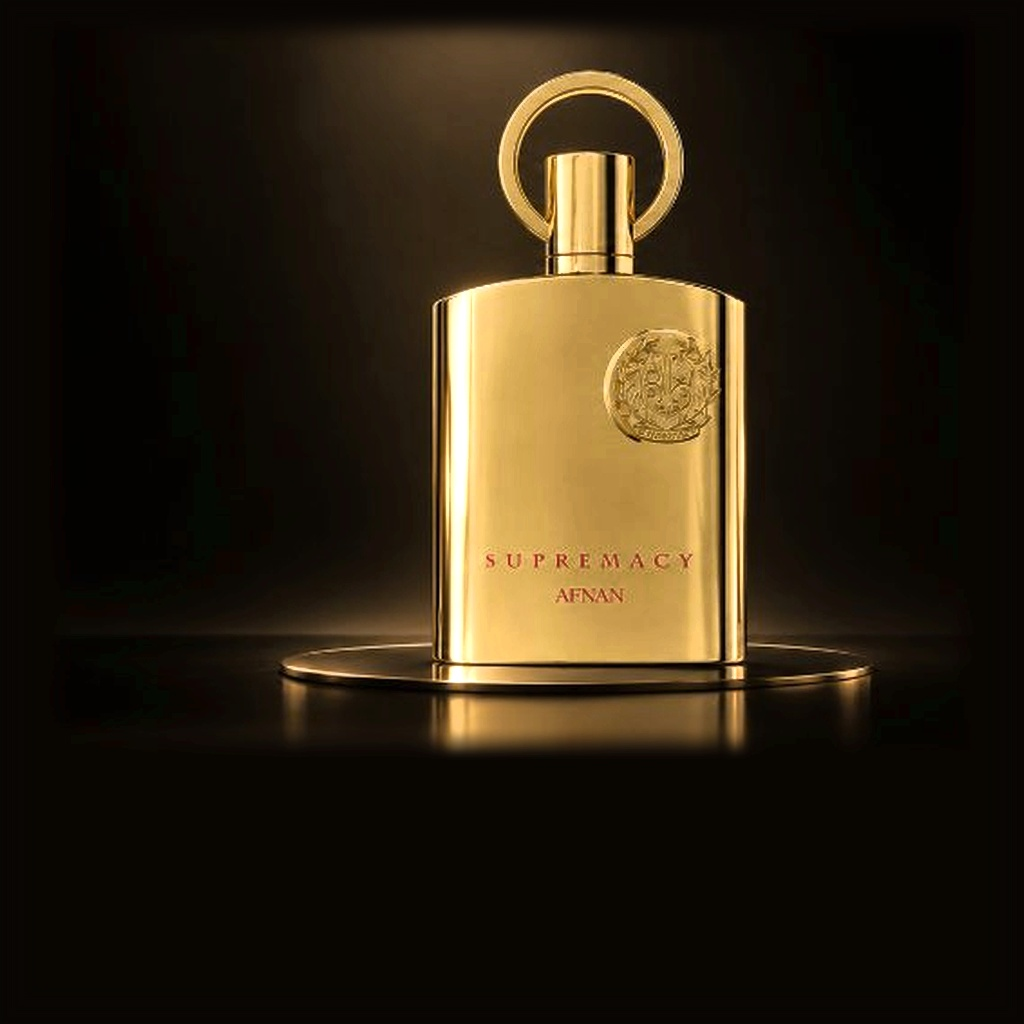
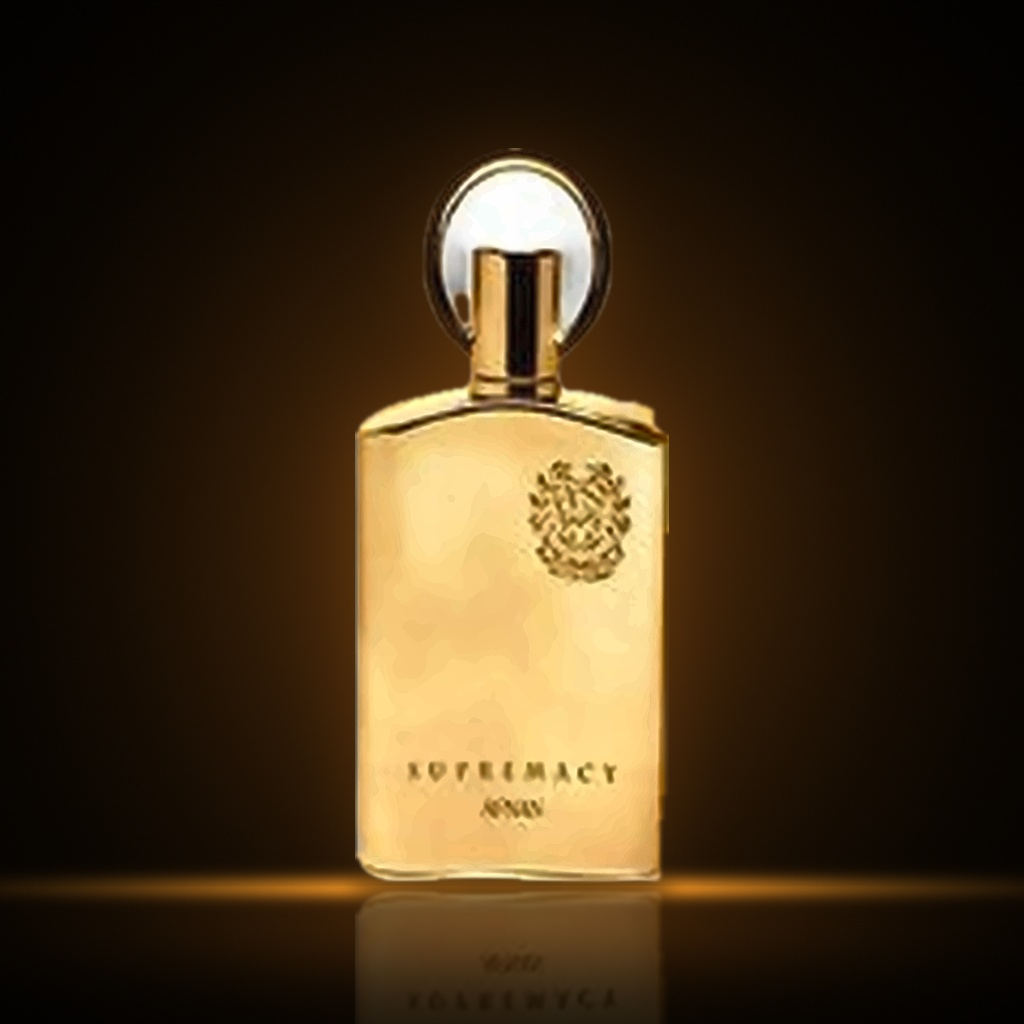
feat(ui): display luxury podium stage and lighting exclusively on product details for all products, keep catalog grid clean

diff --git a/Al-Warda/src/components/bookdetails/BookDetails.css b/Al-Warda/src/components/bookdetails/BookDetails.css
@@ -149,9 +149,8 @@
   display: flex;
   align-items: flex-start;
   justify-content: center;
-  min-height: 500px;
-  height: auto;
-  max-height: 590px;
+  min-height: 600px;
+  height: 600px;
   position: relative;
   padding: 0;
   background: transparent !important;
@@ -160,19 +159,17 @@
   overflow: visible;
   cursor: pointer;
   user-select: none;
-  /* Seamless edge feathering: zero sharp borders, dissolves 100% into the dark page background */
+  /* Soft outer boundary roll-off into the dark background */
   -webkit-mask-image: radial-gradient(
-    ellipse 94% 92% at 50% 50%,
-    #000 62%,
-    rgba(0, 0, 0, 0.85) 76%,
-    rgba(0, 0, 0, 0.4) 89%,
+    ellipse 96% 96% at 50% 50%,
+    #000 82%,
+    rgba(0, 0, 0, 0.7) 92%,
     transparent 100%
   );
   mask-image: radial-gradient(
-    ellipse 94% 92% at 50% 50%,
-    #000 62%,
-    rgba(0, 0, 0, 0.85) 76%,
-    rgba(0, 0, 0, 0.4) 89%,
+    ellipse 96% 96% at 50% 50%,
+    #000 82%,
+    rgba(0, 0, 0, 0.7) 92%,
     transparent 100%
   );
 }
@@ -207,17 +204,69 @@
   color: #d4af37;
 }
 
+/* -------------------------------------------------------------
+   LUXURY STUDIO STAGE: SPOTLIGHT, AURA, PODIUM TRAY, REFLECTION
+   ------------------------------------------------------------- */
+.warda-stage-spotlight {
+  position: absolute;
+  top: -60px;
+  left: -80px;
+  width: 580px;
+  height: 640px;
+  background: radial-gradient(
+    ellipse 85% 70% at 20% 15%,
+    rgba(255, 230, 160, 0.28) 0%,
+    rgba(240, 195, 105, 0.16) 35%,
+    rgba(215, 165, 65, 0.05) 65%,
+    transparent 85%
+  );
+  clip-path: polygon(0 0, 60% 0, 100% 100%, 0 100%);
+  filter: blur(40px);
+  pointer-events: none;
+  z-index: 1;
+}
+
+.warda-stage-aura {
+  position: absolute;
+  top: 42%;
+  left: 50%;
+  transform: translate(-50%, -50%);
+  width: 440px;
+  height: 440px;
+  background: radial-gradient(
+    circle,
+    rgba(225, 175, 55, 0.18) 0%,
+    rgba(210, 150, 40, 0.08) 45%,
+    rgba(160, 100, 20, 0.02) 70%,
+    transparent 85%
+  );
+  filter: blur(48px);
+  pointer-events: none;
+  z-index: 1;
+}
+
+.warda-stage-assembly {
+  position: relative;
+  width: 100%;
+  max-width: 586px;
+  display: flex;
+  flex-direction: column;
+  align-items: center;
+  justify-content: flex-start;
+  padding-top: 40.8px; /* aligns topmost point of flacon flush with title heading */
+  z-index: 2;
+}
+
 /* Flacon Container & Photo Presentation */
 .warda-details-photo {
   position: relative;
   display: flex;
-  align-items: flex-start;
+  align-items: flex-end;
   justify-content: center;
   width: 100%;
-  height: auto;
-  max-width: 600px;
-  max-height: 590px;
-  z-index: 2;
+  max-width: 586px;
+  height: 415px;
+  z-index: 4;
 }
 
 .warda-details-img {
@@ -227,23 +276,109 @@
   width: auto;
   height: auto;
   object-fit: contain;
+  object-position: bottom center;
   position: relative;
-  z-index: 2;
+  z-index: 4;
   image-rendering: auto;
   -webkit-backface-visibility: hidden;
   backface-visibility: hidden;
   transform: translateZ(0);
-  filter: drop-shadow(0 18px 40px rgba(0, 0, 0, 0.75));
+  filter: drop-shadow(0 15px 25px rgba(0, 0, 0, 0.5));
   transition: transform 0.4s cubic-bezier(0.16, 1, 0.3, 1), filter 0.4s ease;
 }
 
 .warda-details-img-wrap:hover .warda-details-img {
-  transform: scale(1.03);
-  filter: drop-shadow(0 26px 52px rgba(0, 0, 0, 0.9)) drop-shadow(0 0 35px rgba(212, 175, 55, 0.25));
+  transform: scale(1.025);
+  filter: drop-shadow(0 20px 35px rgba(0, 0, 0, 0.65)) drop-shadow(0 0 25px rgba(212, 175, 55, 0.3));
 }
 
 @media (hover: none) {
   .warda-details-img-wrap:hover .warda-details-img { transform: none; }
+}
+
+/* Contact Shadow right under the bottle base */
+.warda-stage-contact-shadow {
+  position: absolute;
+  top: 432px;
+  left: 50%;
+  transform: translateX(-50%);
+  width: 250px;
+  height: 16px;
+  background: radial-gradient(
+    ellipse 60% 60% at 50% 50%,
+    rgba(10, 6, 2, 0.95) 0%,
+    rgba(10, 6, 2, 0.6) 45%,
+    transparent 85%
+  );
+  filter: blur(4px);
+  pointer-events: none;
+  z-index: 5;
+}
+
+/* 3D Golden Metallic Podium Tray */
+.warda-stage-podium-tray-wrap {
+  position: absolute;
+  top: 398px;
+  left: 50%;
+  transform: translateX(-50%);
+  width: 510px;
+  height: 140px;
+  pointer-events: none;
+  z-index: 2;
+  display: flex;
+  align-items: flex-start;
+  justify-content: center;
+}
+
+.warda-stage-podium-tray-img {
+  width: 100%;
+  height: auto;
+  display: block;
+  filter: drop-shadow(0 14px 28px rgba(0, 0, 0, 0.85));
+}
+
+/* Optical Mirror Reflection on the Golden Tray */
+.warda-stage-reflection-container {
+  position: absolute;
+  top: 434px;
+  left: 50%;
+  transform: translateX(-50%);
+  width: 100%;
+  max-width: 586px;
+  height: 90px;
+  overflow: hidden;
+  pointer-events: none;
+  z-index: 3;
+  /* Mask to top ellipse of the tray with smooth vertical fade */
+  mask-image: radial-gradient(ellipse 65% 75% at 50% 15%, #000 35%, transparent 75%),
+              linear-gradient(to bottom, #000 0%, transparent 85%);
+  -webkit-mask-image: radial-gradient(ellipse 65% 75% at 50% 15%, #000 35%, transparent 75%),
+                      linear-gradient(to bottom, #000 0%, transparent 85%);
+  mask-composite: intersect;
+  -webkit-mask-composite: source-in;
+}
+
+.warda-stage-reflection-img {
+  width: 100%;
+  height: 415px;
+  object-fit: contain;
+  object-position: bottom center;
+  transform: scaleY(-1);
+  opacity: 0.55;
+  filter: blur(1.5px) brightness(1.15) sepia(0.4) hue-rotate(5deg);
+}
+
+.warda-stage-reflection-tint {
+  position: absolute;
+  inset: 0;
+  background: linear-gradient(
+    to bottom,
+    rgba(235, 195, 85, 0.35) 0%,
+    rgba(195, 150, 50, 0.15) 55%,
+    transparent 100%
+  );
+  mix-blend-mode: overlay;
+  pointer-events: none;
 }
 
 .warda-details-info {

diff --git a/Al-Warda/src/components/bookdetails/BookDetails.jsx b/Al-Warda/src/components/bookdetails/BookDetails.jsx
@@ -29,7 +29,7 @@ function bustImageCache(url) {
   if (!url || typeof url !== "string") return url;
   if (!url.startsWith("/assets/img/")) return url;
   const clean = url.split("?")[0];
-  return `${clean}?v=luxury-stage-v9`;
+  return `${clean}?v=cutout-clean-v10`;
 }
 
 function getPerfumeImageSources(perfume) {
@@ -44,11 +44,11 @@ function getPerfumeImageSources(perfume) {
       : null;
   const webpUrl =
     typeof cleanPrimary === "string" && cleanPrimary.endsWith(".png")
-      ? `${cleanPrimary.replace(/\.png$/, ".webp")}?v=luxury-stage-v9`
+      ? `${cleanPrimary.replace(/\.png$/, ".webp")}?v=cutout-clean-v10`
       : null;
   const pngUrl =
     typeof cleanPrimary === "string" && cleanPrimary.endsWith(".webp")
-      ? `${cleanPrimary.replace(/\.webp$/, ".png")}?v=luxury-stage-v9`
+      ? `${cleanPrimary.replace(/\.webp$/, ".png")}?v=cutout-clean-v10`
       : null;
   const rawGhWebpUrl = rawGhUrl ? rawGhUrl.replace(/\.png$/, ".webp") : null;
   const fallback =
@@ -515,19 +515,50 @@ export default function BookDetails() {
                 aria-label="Inspect perfume flacon details"
                 title={t("details.clickToView")}
               >
-                {/* Flacon Image */}
-                <div className="warda-details-photo">
-                  <img
-                    src={activeImageSrc || perfume?.image}
-                    alt={perfume.name}
-                    className="warda-details-img"
-                    style={{
-                      transformOrigin: "center center",
-                    }}
-                    loading="eager"
-                    decoding="async"
-                    onError={handleFlaconImgError}
-                  />
+                {/* Volumetric Studio Spotlight Beam */}
+                <div className="warda-stage-spotlight" />
+
+                {/* Warm Golden Ambient Backlight Aura */}
+                <div className="warda-stage-aura" />
+
+                {/* Studio Stage Assembly: Flacon + Reflection + Contact Shadow + 3D Golden Podium Tray */}
+                <div className="warda-stage-assembly">
+                  {/* Flacon Image */}
+                  <div className="warda-details-photo">
+                    <img
+                      src={activeImageSrc || perfume?.image}
+                      alt={perfume.name}
+                      className="warda-details-img"
+                      style={{
+                        transformOrigin: "center center",
+                      }}
+                      loading="eager"
+                      decoding="async"
+                      onError={handleFlaconImgError}
+                    />
+                  </div>
+
+                  {/* Optical Mirror Reflection on Golden Tray */}
+                  <div className="warda-stage-reflection-container" aria-hidden="true">
+                    <img
+                      src={activeImageSrc || perfume?.image}
+                      alt=""
+                      className="warda-stage-reflection-img"
+                    />
+                    <div className="warda-stage-reflection-tint" />
+                  </div>
+
+                  {/* Contact Shadow at the Flacon Base */}
+                  <div className="warda-stage-contact-shadow" />
+
+                  {/* 3D Luxury Metallic Podium Tray */}
+                  <div className="warda-stage-podium-tray-wrap" aria-hidden="true">
+                    <img
+                      src="/assets/img/stage/luxury_podium_tray.png"
+                      alt=""
+                      className="warda-stage-podium-tray-img"
+                    />
+                  </div>
                 </div>
               </div>
 

diff --git a/Al-Warda/utils/perfumes.js b/Al-Warda/utils/perfumes.js
@@ -17,11 +17,10 @@ let catalogRefresh = null;
 // catalog once; explicit refresh:true bypasses the TTL. Configurable here.
 let catalogCacheTime = 0;
 const CATALOG_TTL_MS = 10 * 60 * 1000; // 10 minutes
-const PRODUCT_IMAGE_VERSION = "qogita-gemini-image-v4";
+const PRODUCT_IMAGE_VERSION = "cutout-clean-v10";
 
 function resolveCardImage(img, gtin, rawImage) {
   if (img && /^https:\/\//i.test(img)) return img;
-  if (img && isGeneratedProductImage(img)) return img;
   if (img && img.startsWith("/assets/img/")) {
     return `${img.split("?")[0]}?v=${PRODUCT_IMAGE_VERSION}`;
   }
@@ -1983,7 +1982,8 @@ export function ensurePerfumeEnrichment(p) {
   const gtin = p.gtin || p.info?.gtin;
   let resolvedImg = "";
   if (hasCompletedGeneratedImage(p)) {
-    resolvedImg = p.info?.imageGeneration?.imageUrl || p.image || "";
+    const rawGen = p.info?.imageGeneration?.imageUrl || p.image || "";
+    resolvedImg = resolveCardImage(rawGen, gtin, rawImage);
   } else {
     resolvedImg = resolveCardImage(p.image, gtin, rawImage);
   }
@@ -2137,8 +2137,8 @@ function mapStockRowLight(r) {
     inStock: r.in_stock !== false,
     deliveryTime: "4–7 дней (прямая поставка)",
     deliveryTimeEn: "4–7 days (direct dispatch)",
-    image: r.image || "",
-    fullCardImage: r.image || "",
+    image: resolveCardImage(r.image || "", r.gtin, null),
+    fullCardImage: resolveCardImage(r.image || "", r.gtin, null),
     rawImage: null,
     topNotes: [],
     heartNotes: [],
